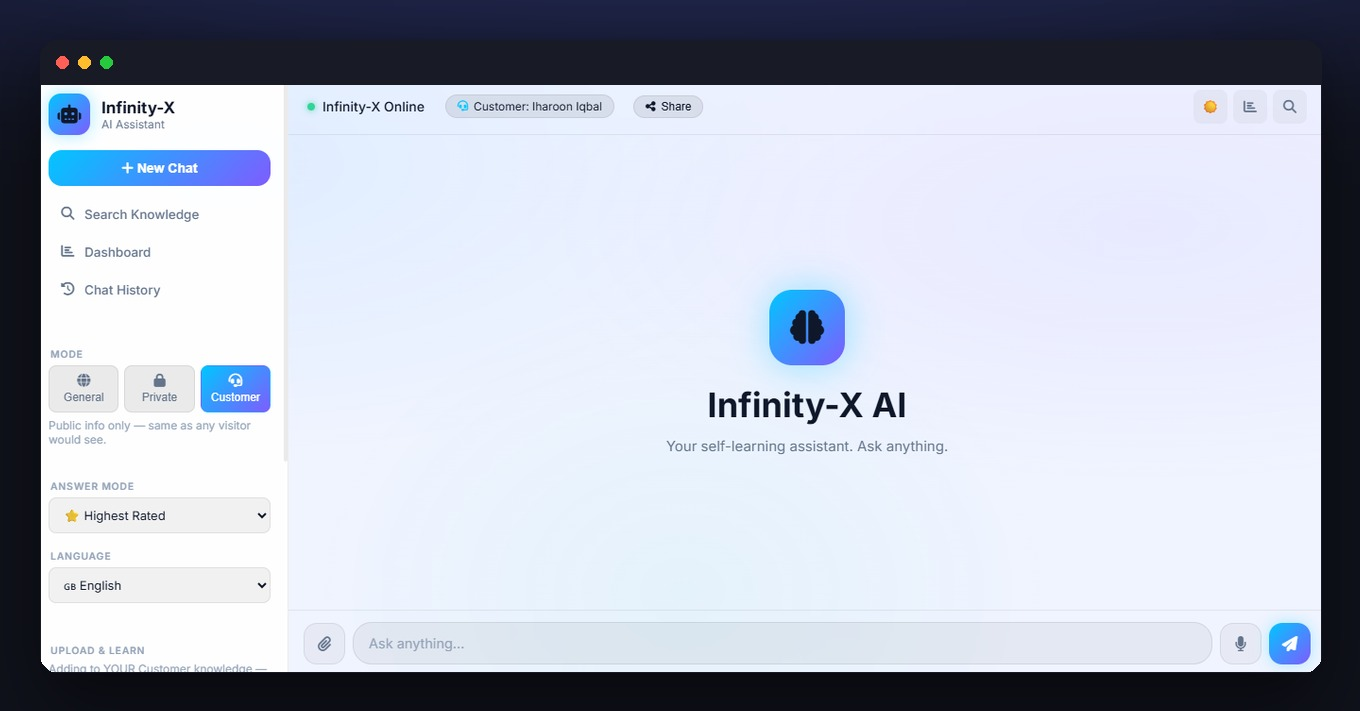
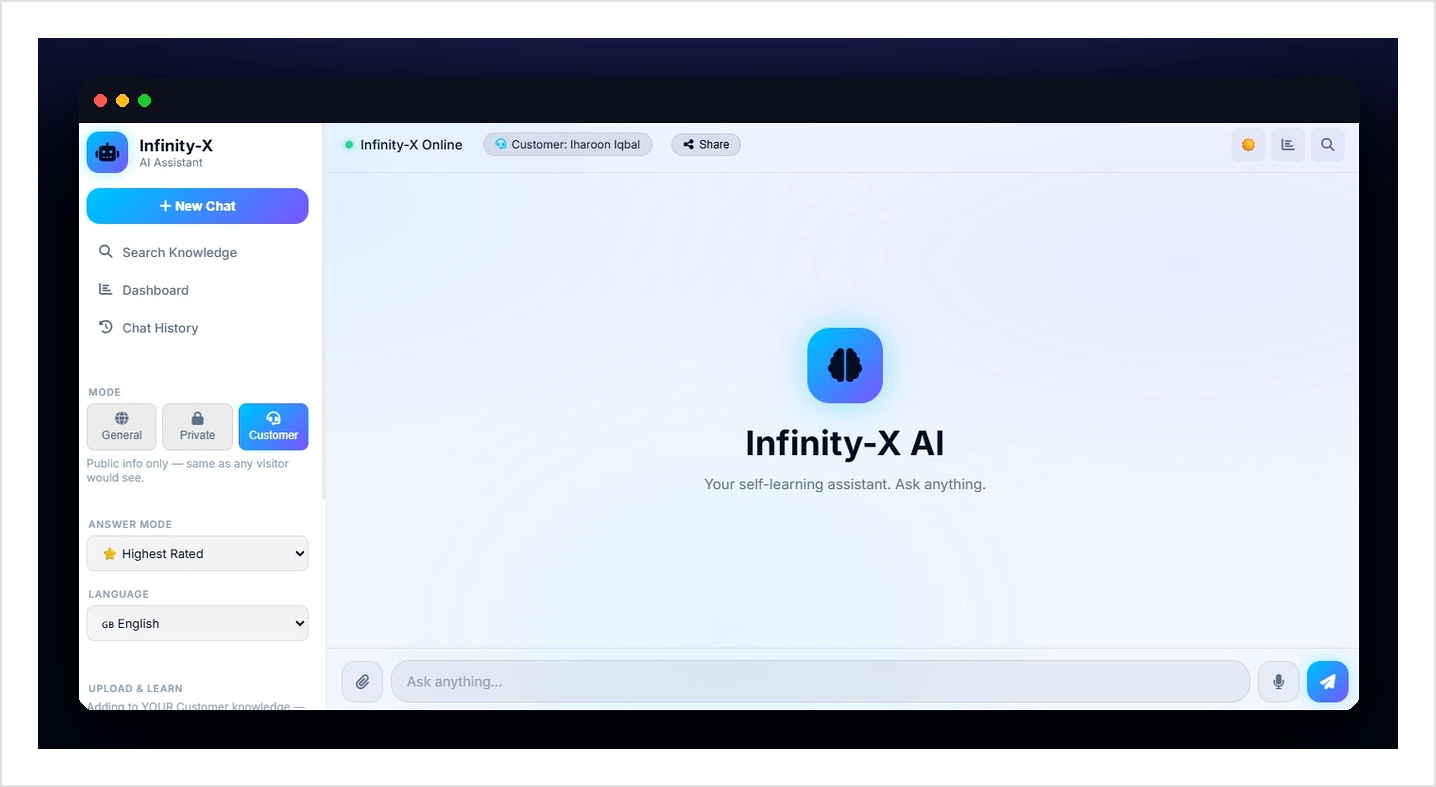
my first commit

diff --git a/projects.html b/projects.html
@@ -391,23 +391,56 @@
         "infinity-gallery": [
           { src: "images/gallery/infinity-welcome.jpg", alt: "Infinity-X AI welcome screen" },
           { src: "images/gallery/infinity-chat.jpg", alt: "Infinity-X AI chat interface" },
+          { src: "images/gallery/infinity-chat-overview.jpg", alt: "Infinity-X AI chat with sidebar overview" },
           { src: "images/gallery/infinity-stats.jpg", alt: "Infinity-X AI statistics dashboard" },
           { src: "images/gallery/infinity-upload.jpg", alt: "Infinity-X AI knowledge upload sources" },
-          { src: "images/gallery/infinity-search.jpg", alt: "Infinity-X AI search knowledge base" }
+          { src: "images/gallery/infinity-search.jpg", alt: "Infinity-X AI search knowledge base" },
+          { src: "images/gallery/infinity-chat-history.jpg", alt: "Infinity-X AI chat history" },
+          { src: "images/gallery/infinity-private-mode.jpg", alt: "Infinity-X AI private mode" },
+          { src: "images/gallery/infinity-tools-menu.jpg", alt: "Infinity-X AI tools menu with summarize and quiz options" },
+          { src: "images/gallery/infinity-log-learned.jpg", alt: "Infinity-X AI log what I learned feature" },
+          { src: "images/gallery/infinity-language.jpg", alt: "Infinity-X AI language selection" },
+          { src: "images/gallery/infinity-answer-mode.jpg", alt: "Infinity-X AI answer mode selection" },
+          { src: "images/gallery/infinity-create-account.jpg", alt: "Infinity-X AI create account screen" },
+          { src: "images/gallery/infinity-login-prompt.jpg", alt: "Infinity-X AI login prompt dialog" },
+          { src: "images/gallery/infinity-welcome-dark-browser.jpg", alt: "Infinity-X AI welcome screen dark mode in browser" },
+          { src: "images/gallery/infinity-customer-mode-dark.jpg", alt: "Infinity-X AI customer mode dark theme" },
+          { src: "images/gallery/infinity-dark-mode-panel.jpg", alt: "Infinity-X AI dark mode settings panel" },
+          { src: "images/gallery/infinity-mobile-dark.jpg", alt: "Infinity-X AI mobile view dark mode" },
+          { src: "images/gallery/infinity-mobile-light.jpg", alt: "Infinity-X AI mobile view light mode" }
         ],
         "harnect-gallery": [
+          { src: "images/gallery/harnect-welcome.jpg", alt: "HARNECT welcome screen" },
           { src: "images/gallery/harnect-login.jpg", alt: "HARNECT login screen" },
+          { src: "images/gallery/harnect-home-dark.jpg", alt: "HARNECT home feed dark theme" },
+          { src: "images/gallery/harnect-home-light.jpg", alt: "HARNECT home feed light theme" },
           { src: "images/gallery/harnect-explore.jpg", alt: "HARNECT explore feed" },
+          { src: "images/gallery/harnect-explore-dark.jpg", alt: "HARNECT explore feed dark theme" },
           { src: "images/gallery/harnect-upload.jpg", alt: "HARNECT upload post and story" },
-          { src: "images/gallery/harnect-profile.jpg", alt: "HARNECT user profile" }
+          { src: "images/gallery/harnect-upload-light.jpg", alt: "HARNECT upload post and story light theme" },
+          { src: "images/gallery/harnect-profile.jpg", alt: "HARNECT user profile" },
+          { src: "images/gallery/harnect-profile-light.jpg", alt: "HARNECT user profile light theme" },
+          { src: "images/gallery/harnect-feedback-light.jpg", alt: "HARNECT feedback form light theme" },
+          { src: "images/gallery/harnect-feedback-dark.jpg", alt: "HARNECT feedback form dark theme" }
         ],
         "links-gallery": [
-          { src: "images/gallery/links-hub.jpg", alt: "Social links hub page" }
+          { src: "images/gallery/links-hub.jpg", alt: "Social links hub page" },
+          { src: "images/gallery/links-hub-scrolled.jpg", alt: "Social links hub page scrolled view" },
+          { src: "images/gallery/links-hub-grid-purple.jpg", alt: "Social links hub grid layout purple theme" },
+          { src: "images/gallery/links-hub-grid-blue.jpg", alt: "Social links hub grid layout blue theme" }
         ],
         "payroll-gallery": [
+          { src: "images/gallery/payroll-home.jpg", alt: "Employee Payroll System home page" },
+          { src: "images/gallery/payroll-home-wide.jpg", alt: "Employee Payroll System home page wide view" },
           { src: "images/gallery/payroll-code.jpg", alt: "Employee Payroll System MySQL code" },
+          { src: "images/gallery/payroll-code-tables.jpg", alt: "Employee Payroll System table creation code" },
+          { src: "images/gallery/payroll-code-insert.jpg", alt: "Employee Payroll System insert data code" },
+          { src: "images/gallery/payroll-code-query.jpg", alt: "Employee Payroll System select query code" },
+          { src: "images/gallery/payroll-code-procedure.jpg", alt: "Employee Payroll System stored procedure code" },
           { src: "images/gallery/payroll-er.jpg", alt: "Employee Payroll System E-R diagram" },
-          { src: "images/gallery/payroll-db.jpg", alt: "Employee Payroll System database output" }
+          { src: "images/gallery/payroll-db.jpg", alt: "Employee Payroll System database output" },
+          { src: "images/gallery/payroll-normalization.jpg", alt: "Employee Payroll System database normalization" },
+          { src: "images/gallery/payroll-contact.jpg", alt: "Employee Payroll System contact page" }
         ]
       };
 
